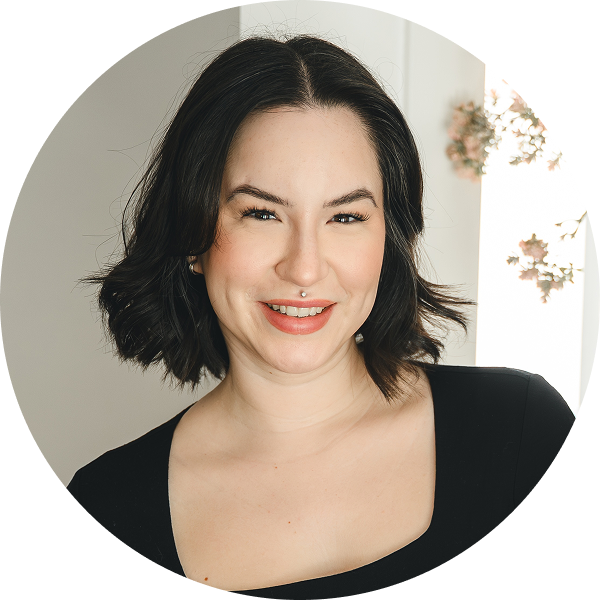
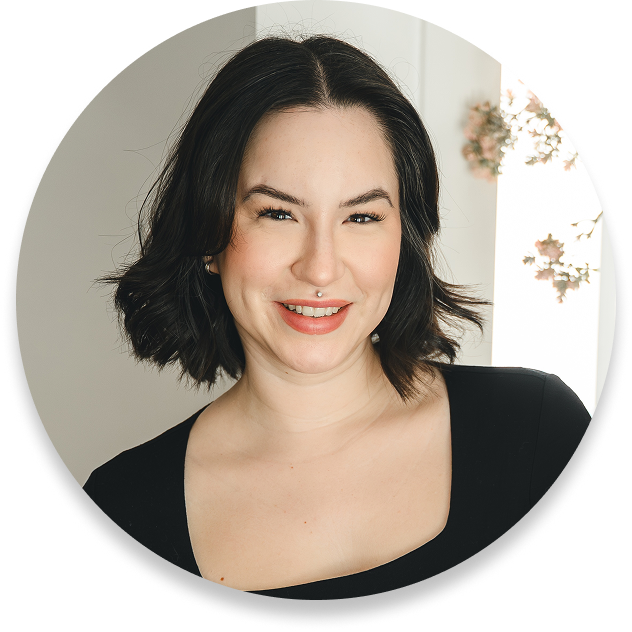
modifying links and update robyns image

diff --git a/faq.html b/faq.html
@@ -5,11 +5,20 @@
     <meta name="viewport" content="width=device-width, initial-scale=1.0">
     <title>Check In Club | checkinclub.ca</title>
     <link rel="stylesheet" href="styles.css">
+    <link rel="icon" href="images/favicon.png">
+
+    <meta property="og:title" content="Check In Club | FAQ">
+    <meta property="og:description" content="Stay connected without the noise of social media">
+    <meta property="og:image" content="http://checkinclub.ca/images/meta-img.png">
+    <meta property="og:url" content="http://checkinclub.ca/faq">
+    <meta property="og:type" content="website">
+
+
 </head>
 <body>
     <header class="main-header">
         <div class="logo">
-            <a href="index.html">
+            <a href="/">
                 <img src="images/full-logo.png" alt="Check In Club logo" class="logo-desktop">
                 <img src="images/just-logo.png" alt="Check In Club logo" class="logo-mobile">
             </a>
@@ -20,9 +29,9 @@
             <span class="nav-toggle_bar"></span>
         </button>
         <nav class="nav-links" id="mobile-nav">
-            <a href="contact.html">Contact</a>
-            <a href="about.html">About</a>
-            <a href="signup.html" class=" btn btn-primary">Sign Up</a>
+            <a href="/contact">Contact</a>
+            <a href="/about">About</a>
+            <a href="/signup" class=" btn btn-primary">Sign Up</a>
         </nav>
     </header>
 
@@ -51,28 +60,28 @@
             </details>
             <details class="faq-item">
                 <summary>When will Check In Club be available?</summary>
-                <p>We're still in development, but we're working hard to bring Check In Club to life. Sign up on our Sign Up page and we'll notify you the moment we launch.</p>
+                <p>We're still in development, but we're working hard to bring Check In Club to life. Sign up on our <a href="/signup">Sign Up page</a> and we'll notify you the moment we launch.</p>
             </details>
         </section>
     </main>
 
     <footer class="main-footer">
         <div class="footer-contents">
-            <a href="index.html">
+            <a href="/">
                 <img src="images/full-ltlogo.png" alt="Check In Club logo" class="logo-desktop">
                 <img src="images/lettermark-logo.png" alt="Check In Club logo" class="footer-logo logo-mobile">
             </a>
             <div class="footer-quick">
                 <div class="footer-links">
                     <h3>Product</h3>
-                    <a href="index.html">Features</a>
-                    <a href="index.html">How It Works</a>
-                    <a href="faq.html">FAQ</a>
+                    <a href="#what-features">Features</a>
+                    <a href="#how-it-works">How It Works</a>
+                    <a href="/faq">FAQ</a>
                 </div>
                 <div class="footer-links">
                     <h3>Company</h3>
-                    <a href="about.html">About Us</a>
-                    <a href="contact.html">Contact</a>
+                    <a href="/about">About Us</a>
+                    <a href="/contact">Contact</a>
                 </div>    
             </div>
         </div>

diff --git a/about.html b/about.html
@@ -6,11 +6,20 @@
     <title>Check In Club | checkinclub.ca</title>
     <link rel="stylesheet" href="styles.css">
     <script src="https://kit.fontawesome.com/f71a247e35.js" crossorigin="anonymous"></script>
+    <link rel="icon" href="images/favicon.png">
+
+    <meta property="og:title" content="Check In Club | About">
+    <meta property="og:description" content="Stay connected without the noise of social media">
+    <meta property="og:image" content="http://checkinclub.ca/images/meta-img.png">
+    <meta property="og:url" content="http://checkinclub.ca/about">
+    <meta property="og:type" content="website">
+
+
 </head>
 <body>
     <header class="main-header">
         <div class="logo">
-            <a href="index.html">
+            <a href="/">
                 <img src="images/full-logo.png" alt="Check In Club logo" class="logo-desktop">
                 <img src="images/just-logo.png" alt="Check In Club logo" class="logo-mobile">
             </a>
@@ -21,9 +30,9 @@
             <span class="nav-toggle_bar"></span>
         </button>
         <nav class="nav-links" id="mobile-nav">
-            <a href="contact.html">Contact</a>
-            <a href="about.html">About</a>
-            <a href="signup.html" class=" btn btn-primary">Sign Up</a>
+            <a href="/contact">Contact</a>
+            <a href="/about">About</a>
+            <a href="/signup" class=" btn btn-primary">Sign Up</a>
         </nav>
     </header>
 
@@ -89,21 +98,21 @@
 
     <footer class="main-footer">
         <div class="footer-contents">
-            <a href="index.html">
+            <a href="/">
                 <img src="images/full-ltlogo.png" alt="Check In Club logo" class="logo-desktop">
                 <img src="images/lettermark-logo.png" alt="Check In Club logo" class="footer-logo logo-mobile">
             </a>
             <div class="footer-quick">
                 <div class="footer-links">
                     <h3>Product</h3>
-                    <a href="index.html">Features</a>
-                    <a href="index.html">How It Works</a>
-                    <a href="faq.html">FAQ</a>
+                    <a href="#what-features">Features</a>
+                    <a href="#how-it-works">How It Works</a>
+                    <a href="/faq">FAQ</a>
                 </div>
                 <div class="footer-links">
                     <h3>Company</h3>
-                    <a href="about.html">About Us</a>
-                    <a href="contact.html">Contact</a>
+                    <a href="/about">About Us</a>
+                    <a href="/contact">Contact</a>
                 </div>    
             </div>
         </div>

diff --git a/contact.html b/contact.html
@@ -5,11 +5,20 @@
     <meta name="viewport" content="width=device-width, initial-scale=1.0">
     <title>Check In Club | checkinclub.ca</title>
     <link rel="stylesheet" href="styles.css">
+    <link rel="icon" href="images/favicon.png">
+
+    <meta property="og:title" content="Check In Club | Contact">
+    <meta property="og:description" content="Stay connected without the noise of social media">
+    <meta property="og:image" content="http://checkinclub.ca/images/meta-img.png">
+    <meta property="og:url" content="http://checkinclub.ca/contact">
+    <meta property="og:type" content="website">
+
+
 </head>
 <body>
     <header class="main-header">
         <div class="logo">
-            <a href="index.html">
+            <a href="/">
                 <img src="images/full-logo.png" alt="Check In Club logo" class="logo-desktop">
                 <img src="images/just-logo.png" alt="Check In Club logo" class="logo-mobile">
             </a>
@@ -20,9 +29,9 @@
             <span class="nav-toggle_bar"></span>
         </button>
         <nav class="nav-links" id="mobile-nav">
-            <a href="contact.html">Contact</a>
-            <a href="about.html">About</a>
-            <a href="signup.html" class=" btn btn-primary">Sign Up</a>
+            <a href="/contact">Contact</a>
+            <a href="/about">About</a>
+            <a href="/signup" class=" btn btn-primary">Sign Up</a>
         </nav>
     </header>
 
@@ -55,21 +64,21 @@
 
     <footer class="main-footer">
         <div class="footer-contents">
-            <a href="index.html">
+            <a href="/">
                 <img src="images/full-ltlogo.png" alt="Check In Club logo" class="logo-desktop">
                 <img src="images/lettermark-logo.png" alt="Check In Club logo" class="footer-logo logo-mobile">
             </a>
             <div class="footer-quick">
                 <div class="footer-links">
                     <h3>Product</h3>
-                    <a href="index.html">Features</a>
-                    <a href="index.html">How It Works</a>
-                    <a href="faq.html">FAQ</a>
+                    <a href="#what-features">Features</a>
+                    <a href="#how-it-works">How It Works</a>
+                    <a href="/faq">FAQ</a>
                 </div>
                 <div class="footer-links">
                     <h3>Company</h3>
-                    <a href="about.html">About Us</a>
-                    <a href="contact.html">Contact</a>
+                    <a href="/about">About Us</a>
+                    <a href="/contact">Contact</a>
                 </div>    
             </div>
         </div>

diff --git a/signup.html b/signup.html
@@ -5,11 +5,20 @@
     <meta name="viewport" content="width=device-width, initial-scale=1.0">
     <title>Check In Club | checkinclub.ca</title>
     <link rel="stylesheet" href="styles.css">
+    <link rel="icon" href="images/favicon.png">
+
+    <meta property="og:title" content="Check In Club | Sign Up">
+    <meta property="og:description" content="Stay connected without the noise of social media">
+    <meta property="og:image" content="http://checkinclub.ca/images/meta-img.png">
+    <meta property="og:url" content="http://checkinclub.ca/signup">
+    <meta property="og:type" content="website">
+
+
 </head>
 <body>
     <header class="main-header">
         <div class="logo">
-            <a href="index.html">
+            <a href="/">
                 <img src="images/full-logo.png" alt="Check In Club logo" class="logo-desktop">
                 <img src="images/just-logo.png" alt="Check In Club logo" class="logo-mobile">
             </a>
@@ -20,9 +29,9 @@
             <span class="nav-toggle_bar"></span>
         </button>
         <nav class="nav-links" id="mobile-nav">
-            <a href="contact.html">Contact</a>
-            <a href="about.html">About</a>
-            <a href="signup.html" class=" btn btn-primary">Sign Up</a>
+            <a href="/contact">Contact</a>
+            <a href="/about">About</a>
+            <a href="/signup" class=" btn btn-primary">Sign Up</a>
         </nav>
     </header>
 
@@ -53,21 +62,21 @@
 
     <footer class="main-footer">
         <div class="footer-contents">
-            <a href="index.html">
+            <a href="/">
                 <img src="images/full-ltlogo.png" alt="Check In Club logo" class="logo-desktop">
                 <img src="images/lettermark-logo.png" alt="Check In Club logo" class="footer-logo logo-mobile">
             </a>
             <div class="footer-quick">
                 <div class="footer-links">
                     <h3>Product</h3>
-                    <a href="index.html">Features</a>
-                    <a href="index.html">How It Works</a>
-                    <a href="faq.html">FAQ</a>
+                    <a href="#what-features">Features</a>
+                    <a href="#how-it-works">How It Works</a>
+                    <a href="/faq">FAQ</a>
                 </div>
                 <div class="footer-links">
                     <h3>Company</h3>
-                    <a href="about.html">About Us</a>
-                    <a href="contact.html">Contact</a>
+                    <a href="/about">About Us</a>
+                    <a href="/contact">Contact</a>
                 </div>    
             </div>
         </div>

diff --git a/contact-msg.html b/contact-msg.html
@@ -5,11 +5,13 @@
     <meta name="viewport" content="width=device-width, initial-scale=1.0">
     <title>Check In Club | checkinclub.ca</title>
     <link rel="stylesheet" href="styles.css">
+    <link rel="icon" href="images/favicon.png">
+
 </head>
 <body>
     <header class="main-header">
         <div class="logo">
-            <a href="index.html">
+            <a href="/">
                 <img src="images/full-logo.png" alt="Check In Club logo" class="logo-desktop">
                 <img src="images/just-logo.png" alt="Check In Club logo" class="logo-mobile">
             </a>
@@ -20,9 +22,9 @@
             <span class="nav-toggle_bar"></span>
         </button>
         <nav class="nav-links" id="mobile-nav">
-            <a href="contact.html">Contact</a>
-            <a href="about.html">About</a>
-            <a href="signup.html" class=" btn btn-primary">Sign Up</a>
+            <a href="/contact">Contact</a>
+            <a href="/about">About</a>
+            <a href="/signup" class=" btn btn-primary">Sign Up</a>
         </nav>
     </header>
 
@@ -34,21 +36,21 @@
     
     <footer class="main-footer">
         <div class="footer-contents">
-            <a href="index.html">
+            <a href="/">
                 <img src="images/full-ltlogo.png" alt="Check In Club logo" class="logo-desktop">
                 <img src="images/lettermark-logo.png" alt="Check In Club logo" class="footer-logo logo-mobile">
             </a>
             <div class="footer-quick">
                 <div class="footer-links">
                     <h3>Product</h3>
-                    <a href="index.html">Features</a>
-                    <a href="index.html">How It Works</a>
-                    <a href="faq.html">FAQ</a>
+                    <a href="#what-features">Features</a>
+                    <a href="#how-it-works">How It Works</a>
+                    <a href="/faq">FAQ</a>
                 </div>
                 <div class="footer-links">
                     <h3>Company</h3>
-                    <a href="about.html">About Us</a>
-                    <a href="contact.html">Contact</a>
+                    <a href="/about">About Us</a>
+                    <a href="/contact">Contact</a>
                 </div>    
             </div>
         </div>

diff --git a/styles.css b/styles.css
@@ -191,6 +191,7 @@ h1, h2, h3 {
 .hero-section {
     min-height: calc(100vh - 94px);
     padding: 6.5rem 10.5rem 5rem;
+    align-items: center;
 }
 
 h1 {
@@ -205,6 +206,7 @@ h1 {
     grid-template-columns: 1fr 1.08fr;
     gap: 4.5rem;
     align-items: center;
+    width: 100%;
 }
 
 .hero-content-text {
@@ -648,6 +650,7 @@ h1 {
     justify-items: center;
     margin-bottom: 20px;
 }
+
 .about-girlie h3 {
     font-size: 1.5rem;
 }
@@ -672,7 +675,7 @@ h1 {
 /*-- sign up page --*/
 .signup-section {
     padding: 4rem 9.8rem;
-    max-width: 1600px;
+    max-width: 1400px;
     width: 100%;
     margin: 0 auto;
     display: flex;
@@ -721,6 +724,7 @@ h1 {
     padding: 3rem 9.5rem 4rem;
     line-height: 28px;
     max-width: 1400px;
+    margin: 0 auto;
 }
 
 .signup-message h2 {
